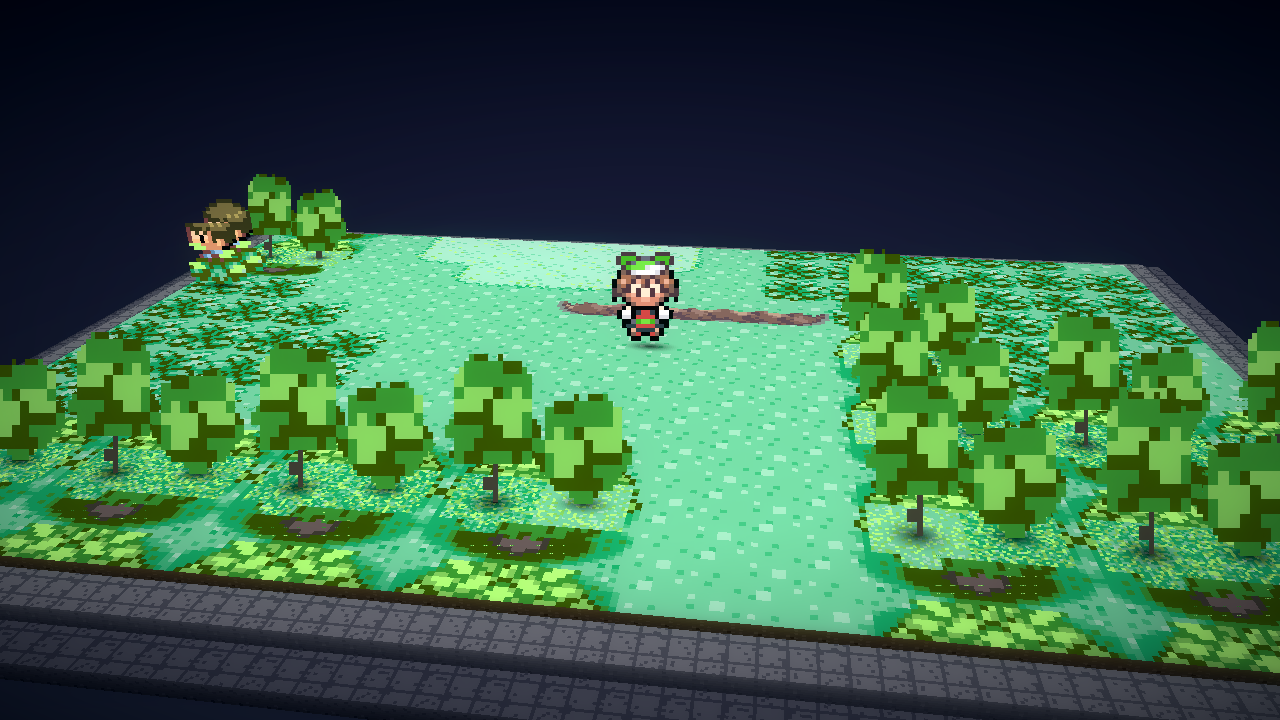
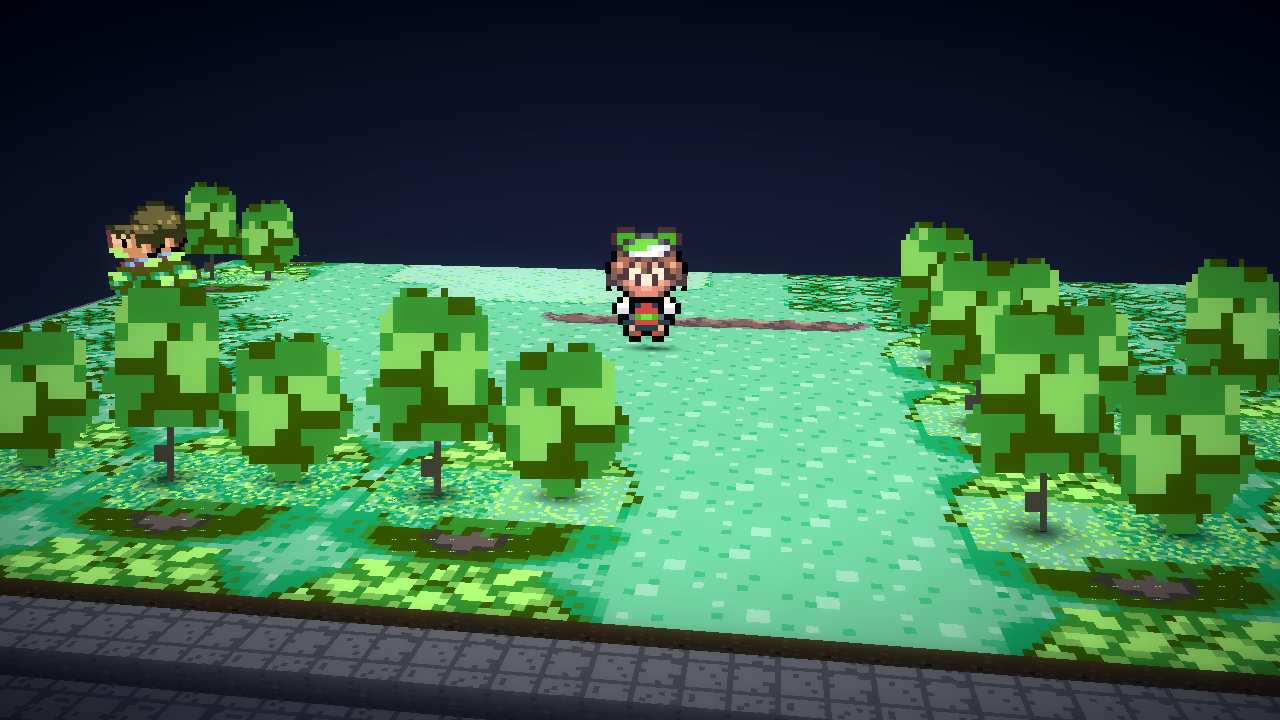
Lower the Route 101 camera for a stronger diorama angle

diff --git a/AGENTS.md b/AGENTS.md
@@ -85,7 +85,7 @@ Dependencies: Python 3.10+, `numpy`, `pillow`; tests use `pytest`.
 - `tools/run-mgba-diorama.sh`: desktop-GL mGBA launcher (2× scale, muted).
 - `profiles/emerald-route101.toml`: example profile matching the real Route 101
   signature (BG2 ground with automatic canopy cards, BG3 backdrop ignored,
-  BG1 billboard leaves; camera 24°/380/8°).
+  BG1 billboard leaves; camera 16°/320/8°).
 - `tests/`: 41 tests covering decode, dump round-trip, profiles, atlas
   stitching/coverage, parallax, canopy relief/cards, ground compositing, mesh,
   render, post, fallback, determinism.
